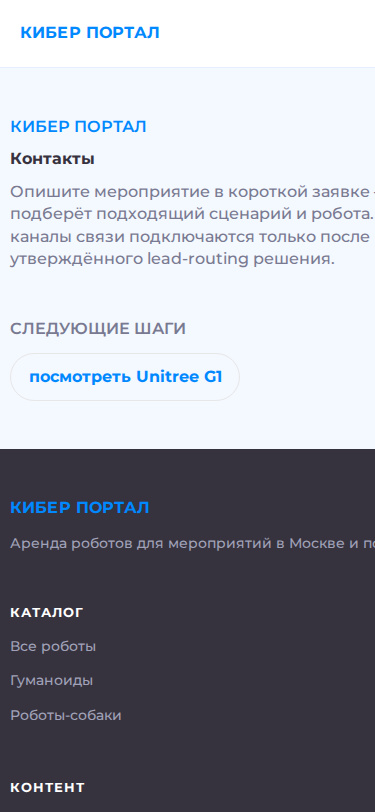
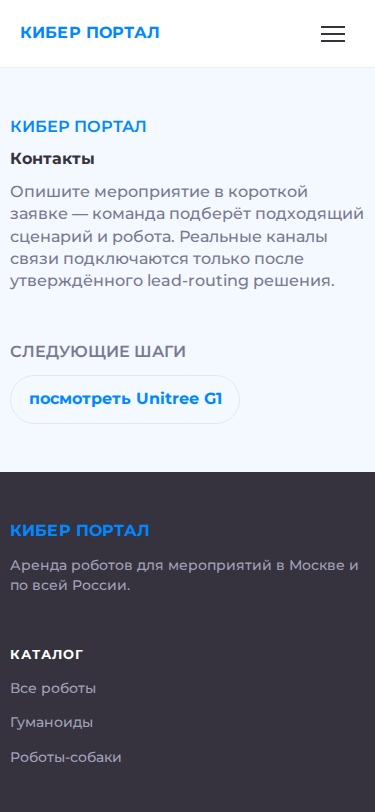
fix: address KIBER-88 mobile visual feedback

diff --git a/src/styles/reference-layer.css b/src/styles/reference-layer.css
@@ -71,8 +71,15 @@ html {
   background: var(--kp-reference-sky);
 }
 
+*,
+*::before,
+*::after {
+  box-sizing: border-box;
+}
+
 body {
-  min-width: 31.25rem;
+  min-width: 20rem;
+  overflow-x: hidden;
   background: var(--kp-reference-sky);
   color: var(--kp-reference-ink);
   font-weight: 500;
@@ -88,7 +95,9 @@ body {
 
 @media (max-width: 39.9375rem) {
   .container {
-    width: 100%;
+    width: auto;
+    max-width: 100%;
+    margin-inline: 0;
     padding-inline: var(--kp-reference-pad-x);
   }
 }
@@ -238,7 +247,7 @@ select:focus-visible {
 
 .robot-page__hero {
   display: grid;
-  grid-template-columns: minmax(0, 1fr) minmax(31.25rem, 0.9fr);
+  grid-template-columns: minmax(0, 1fr) minmax(20rem, 0.9fr);
   gap: 2.75rem;
   align-items: center;
   padding: 3rem 0;
@@ -412,6 +421,14 @@ select:focus-visible {
     padding-block-end: 3rem;
   }
 
+  .vertical-slice > .home-hero,
+  .vertical-slice > .vertical-slice__section,
+  .vertical-slice > .cta-strip,
+  .vertical-slice > .internal-links {
+    width: calc(100vw - (2 * var(--kp-reference-pad-x)));
+    max-width: 100%;
+  }
+
   .vertical-slice__card-grid {
     grid-template-columns: repeat(2, minmax(0, 1fr));
   }
@@ -428,7 +445,13 @@ select:focus-visible {
 
   .robot-page__media {
     order: -1;
+    aspect-ratio: 16 / 9;
     border-radius: 1.5rem;
+  }
+
+  .robot-page__media img {
+    object-fit: contain;
+    object-position: center center;
   }
 
   .robot-page h1 {
@@ -439,14 +462,17 @@ select:focus-visible {
     font-size: var(--kp-reference-display-m);
   }
 
-  .robot-page__actions {
+  .robot-page__actions,
+  .cta-strip__actions {
     display: grid;
     gap: 0.75rem;
+    justify-items: start;
   }
 
   .robot-page__button,
   .cta-strip__button {
-    width: 100%;
+    width: auto;
+    max-width: 100%;
     justify-content: center;
   }
 
@@ -465,5 +491,39 @@ select:focus-visible {
   .site-footer__legal-links {
     grid-template-columns: 1fr;
     flex-direction: column;
+  }
+
+  .site-footer__logo,
+  .site-footer__description,
+  .site-footer__title,
+  .site-footer a,
+  .site-footer div {
+    max-width: 100%;
+    overflow-wrap: anywhere;
+  }
+}
+
+@media (min-width: 40rem) and (max-width: 59.9375rem) {
+  .site-footer__main {
+    grid-template-columns: minmax(0, 1.1fr) minmax(0, 0.9fr);
+    align-items: start;
+  }
+
+  .site-footer__main > div:first-child {
+    max-width: 22rem;
+    grid-column: 1;
+    grid-row: 1;
+  }
+
+  .site-footer__main > div:last-child {
+    grid-column: 2;
+    grid-row: 1;
+    justify-self: end;
+    width: min(100%, 18rem);
+  }
+
+  .site-footer__main > div:nth-child(2),
+  .site-footer__main > div:nth-child(3) {
+    grid-row: 2;
   }
 }

diff --git a/tests/visual/reference-visual-layer-pass1.test.ts b/tests/visual/reference-visual-layer-pass1.test.ts
@@ -47,6 +47,10 @@ test('KIBER-88 imports a reference-layer CSS file with core reference primitives
   assert.match(css, /\.home-hero__card/);
   assert.match(css, /\.robot-page__hero/);
   assert.match(css, /\.robot-card__badge/);
+  assert.match(css, /min-width:\s*20rem/);
+  assert.doesNotMatch(css, /min-width:\s*31\.25rem/);
+  assert.match(css, /aspect-ratio:\s*16\s*\/\s*9/);
+  assert.match(css, /object-fit:\s*contain/);
 
   const baseLayout = text(baseLayoutPath);
   assert.match(baseLayout, /\.\.\/styles\/reference-layer\.css/);

diff --git a/docs/review/kiber-88/reference-visual-layer-evidence.md b/docs/review/kiber-88/reference-visual-layer-evidence.md
@@ -8,92 +8,65 @@ Visual sources:
 
 - `docs/source/reference-desktop-v9.html`
 - `docs/source/reference-mobile-v3.html`
+- uploaded Qwen HTML files are treated as visual references only, not runtime source.
 
-The implementation preserves the existing controlled rebuild foundation: 24 robot pages, SEO metadata, JSON-LD, sitemap, internal links, content acceptance, responsive QA, Docker/runtime and CI gates.
+## Pass 1 applied areas
 
-## What changed
+- `01-header`: reference-like sticky header rhythm and compact CTA.
+- `02-home-hero`: dark card, blue/white CTAs, 16:9/contain mobile image behavior, stats cards, responsive typography.
+- `05-robot-card`: card/badge/radius/color treatment through the visual layer.
+- `09-cta-strip`: reference dark CTA, compact stacked mobile CTAs.
+- `11-robot-hero`: detail-page hero layout, 16:9/contain mobile media behavior, compact stacked mobile buttons.
+- `15-pricing`: dark pricing surface treatment.
+- `33-footer`: reference dark footer, mobile-safe text wrapping, tablet 768 two-column arrangement with contacts top-right.
 
-- Added `src/styles/reference-layer.css` as the first controlled runtime visual layer for reference primitives and shared layout rhythm.
-- Imported the reference layer from `src/layouts/BaseLayout.astro`.
-- Updated `HomeHero` structure toward the reference composition:
-  - dark rounded hero card;
-  - large display heading;
-  - visual media side;
-  - primary/secondary pill CTAs;
-  - compact stats inside the dark card;
-  - `data-rv="02"` reference marker.
-- Added a representative hero image from the existing legally tracked robot media set instead of embedding external reference HTML/media.
-- Updated the robot detail hero first screen toward the reference rhythm:
-  - 1:1 media card;
-  - large title;
-  - visible price accent;
-  - full-width mobile CTA buttons;
-  - `data-rv="11"` reference marker.
-- Added `data/review/reference-visual-layer-pass1.json` to record scope, source hierarchy and safety boundaries.
-- Added `tests/visual/reference-visual-layer-pass1.test.ts` and `scripts/reference-visual-layer-smoke.mjs`.
-- Added `npm run test:reference-visual-layer` to the cumulative `npm run ci`.
+## User feedback addressed after first review
 
-## Architecture/safety boundaries
-
-- Raw reference HTML was **not** pasted into runtime.
-- Raw colors and px values are not left in `src/`; the existing design-system lint gate enforces this.
-- Production deploy, DNS, secrets, analytics provider and real lead routing were not changed.
-- Contacts/lead pages remain safe/static; no live form submission was enabled.
+- Homepage hero image was visually too square on mobile; fixed by forcing a horizontal 16:9 viewport slot and `object-fit: contain` in the mobile/tablet stack.
+- Homepage mobile 375 buttons were too wide/split; fixed as compact stacked CTAs.
+- Homepage stats/value blocks overflowed on 375; fixed container/grid sizing and verified no horizontal overflow.
+- Robot detail page mobile image showed only a cropped portion; fixed mobile media to 16:9 + contain.
+- Robot detail page mobile text/buttons now fit within viewport and buttons stack compactly.
+- Contacts/lead mobile text/form visible area no longer horizontally overflows.
+- Footer mobile logo/description/contact text wraps within viewport.
+- Footer tablet 768 now uses a two-column arrangement: brand/description left, contacts upper-right, catalog/content below.
 
 ## Verification
 
-```text
+Commands run locally:
+
+```bash
 node --import tsx --test tests/visual/reference-visual-layer-pass1.test.ts
 npm run build:production
 npm run test:reference-visual-layer
-npm run ci
 ```
 
-Observed:
+Screenshot capture verification:
 
 ```text
-KIBER-88 reference visual layer contract: passed
-Astro production build: 36 pages built
-KIBER-88 reference visual layer smoke: passed
-npm run ci: passed
+captured 16 route x viewport variants to docs/review/kiber-88/screenshots; mobile overflow count 0
 ```
 
-Full CI retained previous gates:
-
-```text
-KIBER-34 visual regression smoke passed: 10 approved references verified.
-KIBER-39 performance budget smoke passed: 4 routes checked.
-KIBER-43 route/sitemap smoke passed: 35 launch routes, 31 sitemap URLs, 2 redirects checked.
-KIBER-45 RobotPage smoke passed: 24 robot pages.
-KIBER-55 content acceptance smoke passed: 31 public routes checked; 31 remain human-review gated.
-KIBER-63 responsive visual QA smoke passed: 24 screenshots, 11 contact sheets, 0 blocking defects.
-KIBER-88 reference visual layer smoke passed.
-KIBER-20 CI baseline smoke passed: 36 HTML pages link-checked.
-```
+A full `npm run ci` is rerun after this feedback fix before pushing.
 
 ## Screenshot evidence
 
-Captured from local `dist` after `npm run ci`:
+- `docs/review/kiber-88/screenshots/manifest.json`
+- `docs/review/kiber-88/contact-sheets/home__kiber-88-contact-sheet.jpg`
+- `docs/review/kiber-88/contact-sheets/robot-unitree-g1__kiber-88-contact-sheet.jpg`
+- `docs/review/kiber-88/contact-sheets/contacts__kiber-88-contact-sheet.jpg`
+- `docs/review/kiber-88/contact-sheets/lead-request__kiber-88-contact-sheet.jpg`
+- `docs/review/kiber-88/contact-sheets/all-routes__mobile-desktop__kiber-88-contact-sheet.jpg`
 
-- routes: `/`, `/robots/arenda-unitree-g1/`, `/contacts/`, `/lead/request/`;
-- viewports: `375x812`, `768x1024`, `1024x768`, `1440x1000`;
-- artifacts:
-  - `docs/review/kiber-88/screenshots/manifest.json`;
-  - `docs/review/kiber-88/screenshots/*first-screen.png`;
-  - `docs/review/kiber-88/screenshots/*full-page.png`;
-  - `docs/review/kiber-88/contact-sheets/*`.
+## Safety boundaries
 
-## Visual sanity notes
+- No production deployment.
+- No DNS changes.
+- No production secrets.
+- No analytics provider scripts/IDs/cookies.
+- No live lead-routing destination.
+- No raw reference HTML copied into Astro runtime.
 
-No blocking defects were found in the first-screen contact sheets:
+## Follow-up after approval
 
-- pages render rather than blanking;
-- main CTAs remain visible and tappable;
-- mobile/desktop layouts do not show obvious horizontal overflow;
-- hero and robot-page first screens now visually move toward the supplied reference direction.
-
-Nonblocking follow-ups:
-
-- contacts and lead pages currently inherit global reference canvas/header/footer but still need a dedicated reference-composition pass;
-- remaining 34-section parity should continue incrementally through tokens/specs/components/pages;
-- final visual approval should happen from screenshots, not from this automated pass alone.
+Pass 1 intentionally does not claim full 34-block parity. Next controlled pass should continue with deeper reference composition for contacts/lead pages and remaining commercial sections.
